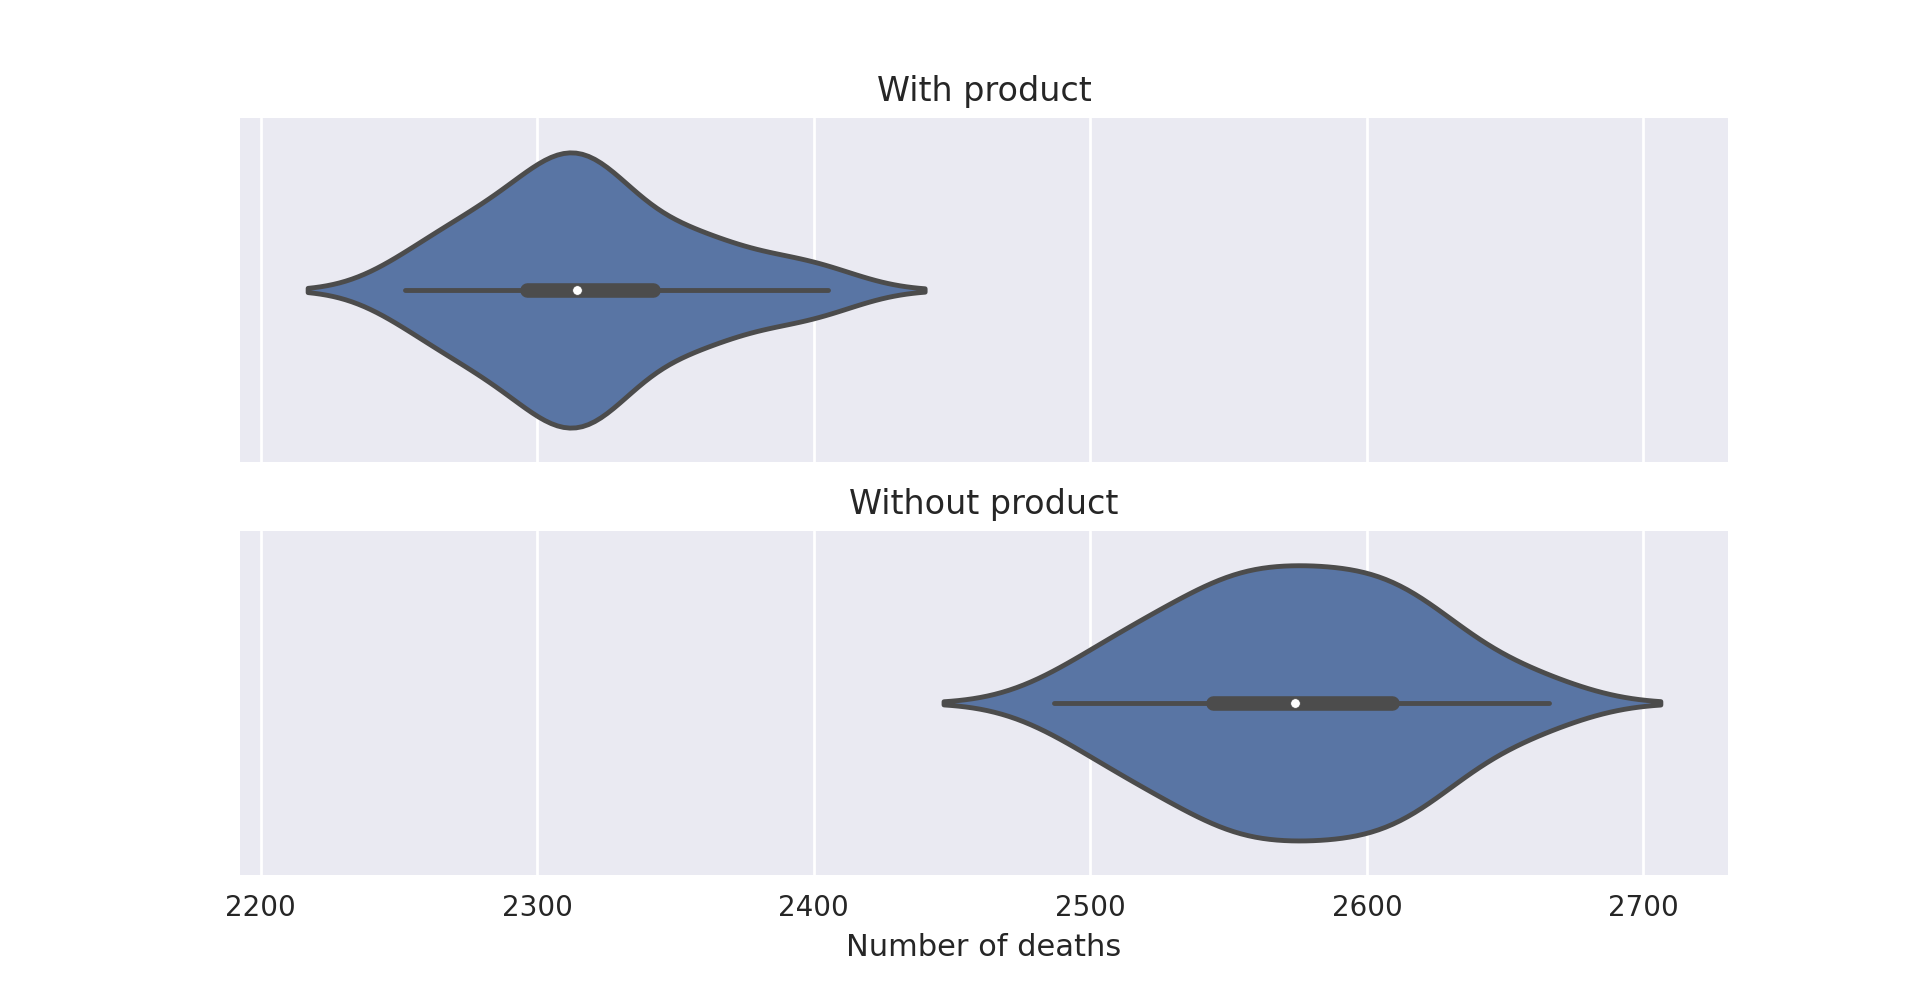
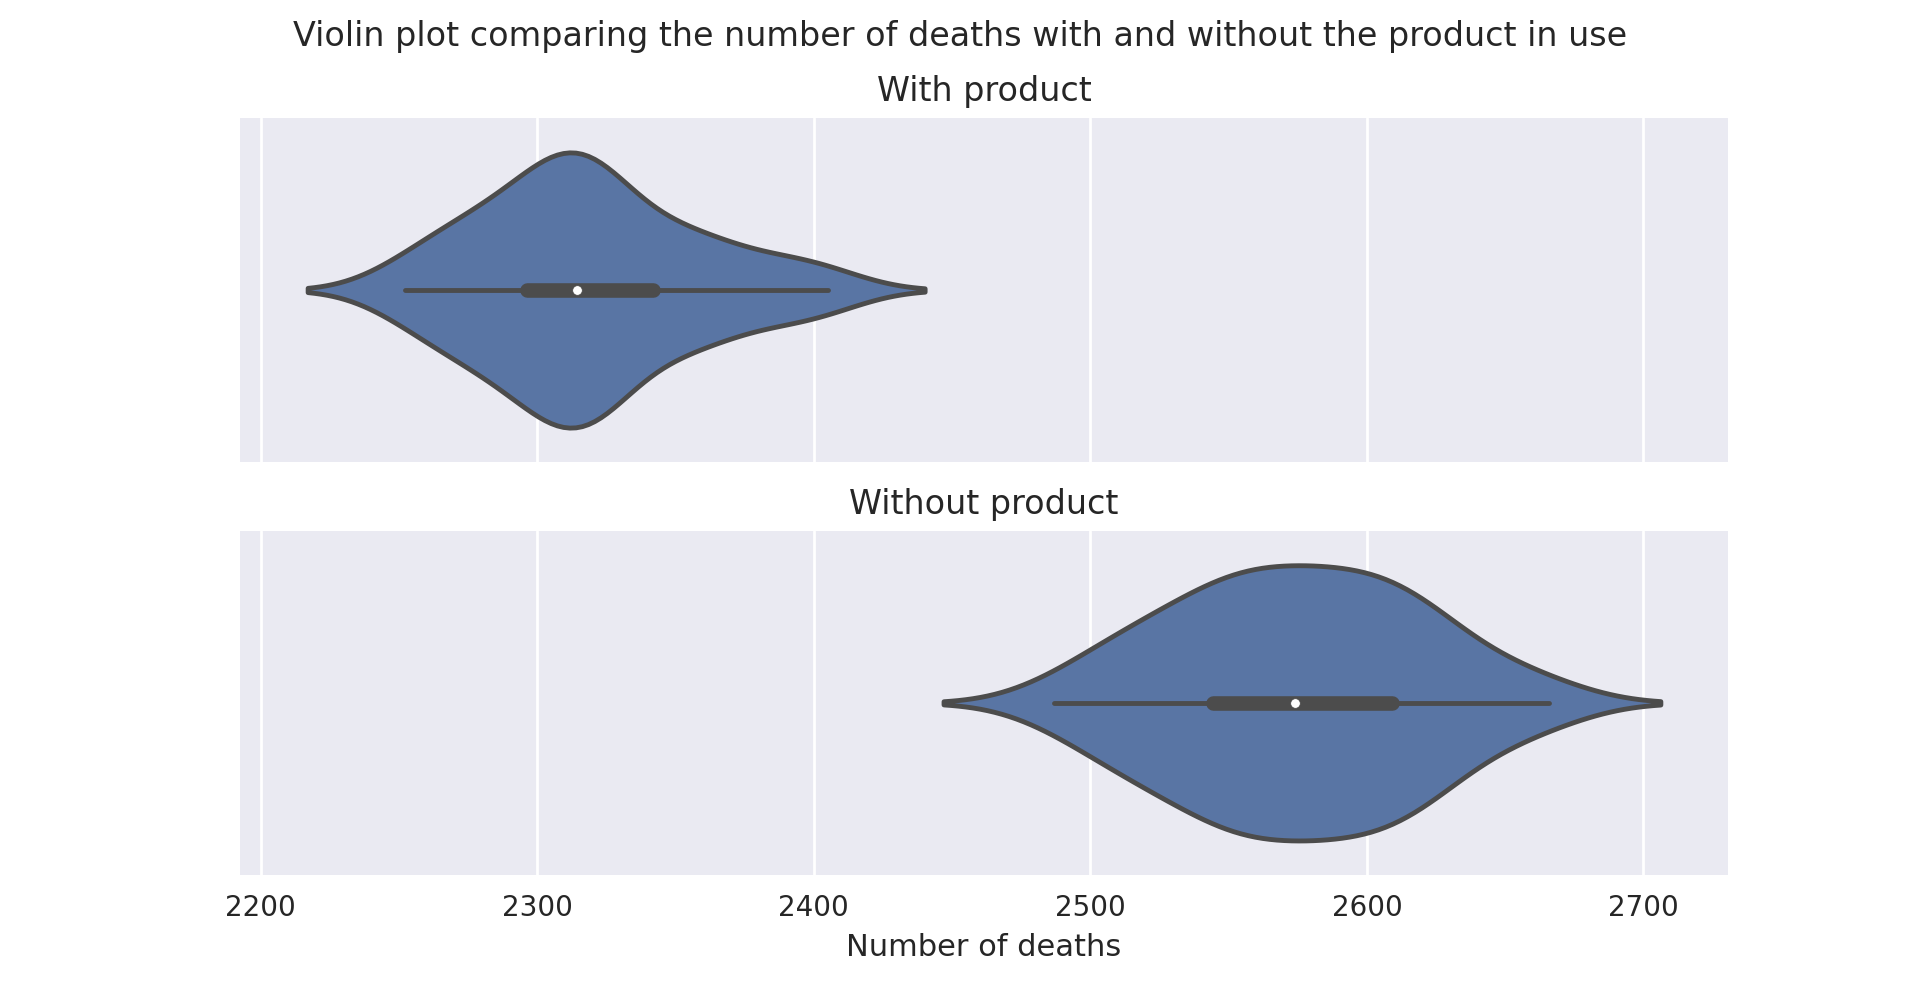
Minor changes

Changed region(s): [[0.1562, 0.0305, 0.8438, 0.061]]

diff --git a/writeup/data_analysis/violin_plot_deaths.py b/writeup/data_analysis/violin_plot_deaths.py
@@ -63,6 +63,7 @@ if __name__ == "__main__":
 
 def deaths_comparison(with_product, without_product):
     fig, ax = plt.subplots(2, 1, sharex=True)
+    fig.suptitle("Violin plot comparing the number of deaths with and without the product in use")
     plt.xlabel('Number of deaths')
 
     sns.violinplot(with_product, ax=ax[0])

diff --git a/writeup/writeup.md b/writeup/writeup.md
@@ -143,7 +143,7 @@ Our model is discrete time, stochastic, and compartmental:
 
 #### Extensions from the SIR model
 
-The model is at its core a modification of the standard "susceptible-infected-recovered" (often referred to as SIR) model for epidemic disease, which was first formulated in 1927 by Kermack and McKendrick (https://royalsocietypublishing.org/doi/abs/10.1098/rspa.1927.0118) [1].
+The model is at its core a modification of the standard "susceptible-infected-recovered" (often referred to as SIR) model for epidemic disease, which was first formulated in 1927 by Kermack and McKendrick [1].
 
 This model can be described as three "compartments", one for people susceptible to a pathogen, one for people infected with the pathogen, and one for those who have recovered from the pathogen.
 
